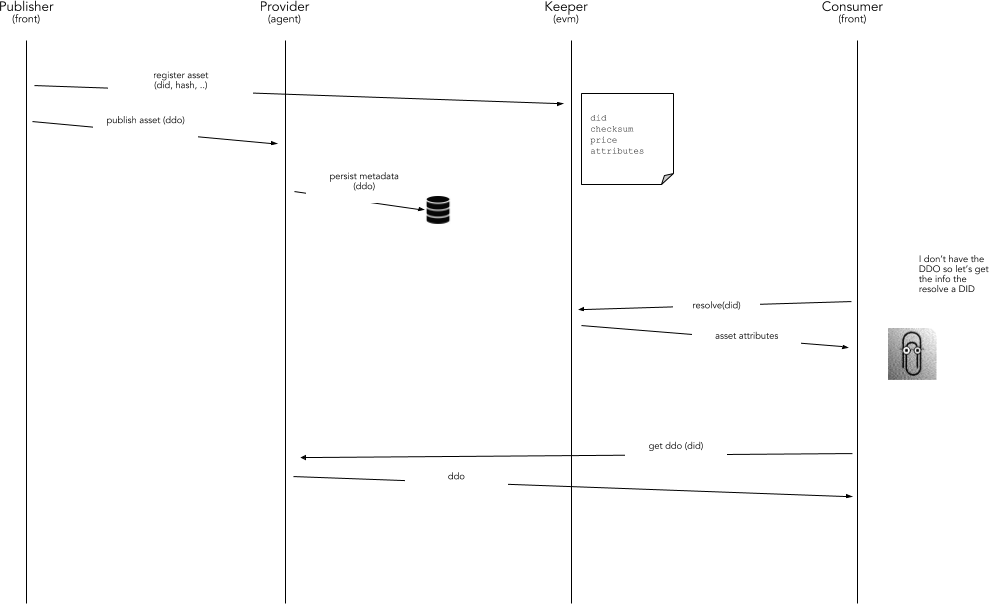
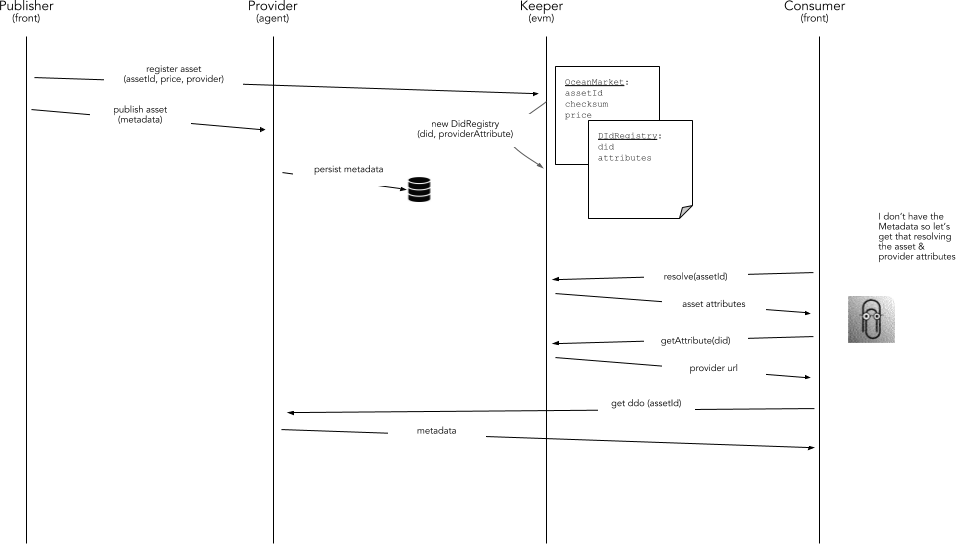
spec updated

diff --git a/7/README.md b/7/README.md
@@ -20,12 +20,18 @@ Table of Contents
       * [Specification](#specification)
       * [Proposed Solution](#proposed-solution)
          * [Decentralized ID's (DID)](#decentralized-ids-did)
-         * [Registry](#registry)
-         * [Resolver](#resolver)
+         * [Actors Identity](#actors-identity)
+            * [Registry](#registry)
+            * [DID Resolver](#did-resolver)
+         * [Assets Identification](#assets-identification)
+            * [Registry of Assets](#registry-of-assets)
+            * [Assets Resolver](#assets-resolver)
       * [Changes Required](#changes-required)
       * [Metadata Integrity](#metadata-integrity)
          * [Proposed solution](#proposed-solution-1)
       * [Changes Required](#changes-required-1)
+      * [References](#references)
+
 
 
 <!--te-->
@@ -52,12 +58,13 @@ The key words "MUST", "MUST NOT", "REQUIRED", "SHALL", "SHALL NOT", "SHOULD", "S
 
 The main motivations of this OEP are:
 
-* Design a solution to extend the current architecture to use **Uniform Resource Names (URN)**, **Decentralized Identifiers (DID)** and **DID description objects (DDO)**
+* Design a solution to extend the current Ocean architecture to use  **Decentralized Identifiers (DID)** and **DID description objects (DDO)**
 * Understand how to register information on-chain with off-chain integrity associated
 * Understand how to resolve DID's into DDO's
+* Understand how to resolve Assets Metadata using Assets IDs
 * Design a solution facilitating to have the on-chain and off-chain information aligned
-* Establishing the mechanism to know if the DDO associted to a DID was modified
-* Defining the common mechanisms, interfaces and API's to implemented the designed solution
+* Establishing the mechanism to know if the DDO associated to a DID was modified
+* Defining the common mechanisms, interfaces and APIs to implemented the designed solution
 * Define how Ocean assets, agents and tribes can be modeled with a DID/DDO data model
 * Understand how DID hubs are formed, and how they integrate a business and storage layer
 
@@ -74,16 +81,16 @@ Requirements are:
 * KEEPER doesn't store any ASSET metadata
 * OCEAN doesn't store ASSET files contents
 * SUBJECTS (Ocean actors) could be identified using a **Decentralized ID (DID)** included on-chain and off-chain
-* ACTORS don't need to be registered. Only ACTORS requiring to be discovered by others require a simple registering mechanism
+* ACTORS don't need to be registered. Only ACTORS requiring to be discovered by others require a simple registration mechanism
 * A Decentralized Distributed Object (**DDO**) represents the metadata of an Actor
-* A **DID** can be resolved to get access to a **DDO**
-* DDO's can be updated without updating the on-chain information
+* A **DID** can be resolved into a **DDO**
+* DDOs can be updated without updating the on-chain information
 * An ASSET is modeled in OCEAN as on-chain information stored in the KEEPER and metadata stored in OCEANDB
 * ASSETS on-chain information only can be modified by OWNERS or DELEGATED USERS
-* ASSETS can be resolved using a **Uniform Resource Name (URN)** included on-chain and off-chain
-* Any kind of object registered in Ocean MUST have a **URN** allowing to uniquely identify that object in the system
-* ASSET Metadata (off-chain) is associated to the ASSET information stored on-chain using a common **URN**
-* A **URN** can be resolved to get access to extended **Metadata**
+* An ASSET is identified using an ASSET ID
+* Any kind of object registered in Ocean MUST have a **Uniform Resource Names (URN)** allowing to uniquely identify that object in the system
+* ASSET Metadata (off-chain) is associated to the ASSET information stored on-chain using a common **ASSET ID**
+* A **ASSET ID** can be resolved to get access to extended **Metadata**
 * ASSET Metadata could be provided by one or more than one providers
 * ASSETs Metadata can be updated without updating the on-chain information
 * ASSET information stored in the keeper will include a **checksum** attribute
@@ -122,59 +129,34 @@ did:ocn:21tDAKCERh95uGgKbJNHYp
 The complete specs can be found in the [W3C Decentralized Identifiers (DIDs) document](https://w3c-ccg.github.io/did-spec/)
 
 
-### Uniform Resource Names (URN)
-
-Uniform Resource Names (URNs) are intended to serve as persistent, location-independent, resource identifiers and are designed to make
-it easy to map other namespaces (which share the properties of URNs) into URN-space. Therefore, the URN syntax provides a means to encode
-character data in a form that can be sent in existing protocols, transcribed on most keyboards, etc.
-
-Schema:
-
-```text
-<URN> ::= "urn:" <NID> ":" <NSS>
-```
-
-Where <NID> is the Namespace Identifier, and <NSS> is the Namespace Specific String.
-The leading "urn:" sequence is case-insensitive. The Namespace ID determines the _syntactic_ interpretation of the Namespace Specific String.
-
-In practice, a possible URN's to use in Ocean refering an Asset is:
-
-```text
-urn:asset:123456aabbcc
-```
-
-To avoid additional extra costs, only the Namespace Specific String (NSS) will be stored in the specific Smart Contract.
-It means in any Assets Registry variable, only the NSS will be stored.
-
-
 ### Actors Identity
 
 #### Registry
 
-To register an Actor, who requires to be located, the simple will provide a **simple** register contract named **DIdRegistry**.
+To register an Actor, requiring to be located, a simple register contract named **DidRegistry** will be provided.
 The key of the Identity entity in Ocean is the **DID**. Associated to this DID we have a Mapping of key-value attributes,
 allowing to associate publicly information to DID's. This could be used to add public information allowing for example
-to discover/resolve a DID.
-There are two main options to implement this:
+to discover/resolve a DID. There are two main options to implement this:
 
 * Associate to the DID a mapping of key-value attributes to be stored as new entries of a smart contract variable
 
-* Emit events associated to the DID. Events works pretty well as a kind of cost effective storage. This is the recommended approach.
+* Emit events associated to the DID. Events works pretty well as a kind of cost effective storage. This is the **recommended approach**.
 
 Contract Events are a useful feature for storing data from smart contracts exclusively for off-chain use.
 
-Here a draft **DIdRegistry** implementation:
+Here a draft **DidRegistry** implementation:
 
 ```solidity
 
 // This piece of code is for reference only!
 // Doesn't include any validation, types could be reviewed, enums, etc
 
-contract DIdRegistry {
+contract DidRegistry {
 
     struct Identity {
         address owner; // owner of the Identity
         string did;
+        mapping (bytes32 => string) attributes; // key => value attributes
     }
 
     mapping (string => Identity) identities; // list of identities
@@ -182,11 +164,9 @@ contract DIdRegistry {
     // Option 1. Attributes as K,V stored as part of internal object attributes
     mapping (string => mapping (bytes32 => string) ) identities; // list identities attributes
 
-    // Option 2. Attributes as events (recommended)
+    // Attributes are emited as events
     event DidAttributeRegistered(
         string indexed did,
-        address indexed owner,
-        bool indexed active,
         bytes32 indexed key,
         string value,
         uint updateAt
@@ -195,56 +175,34 @@ contract DIdRegistry {
     constructor(bytes32 _did) public {
     }
 
-    function registerAttribute(string _did, bytes32 _key, string _value) public returns (bool) {
-        // Option 1.
+    function registerAttribute(string _did, bytes32 _key, string _value) public _onlyOwner returns (bool) {
+        // Registering Identity
         identities[_did][_key] = _value;
 
-        // Option 2. (recommended)
-        DidAttributeRegistered(_did, msg.sender, identities[_did].type, _key, _value, now);
+        // Emitting event about new Attribute registered
+        emit DidAttributeRegistered(_did, _key, _value, now);
+    }
+
+    function getAttribute(string _did, bytes32 _key) public view returns (string) {
+        return identities[_did][_key];
     }
 }
 
 ```
 
-To register the provider publicly resolving the DDO associated to a DID, we will register an attribute **"provider"** with the public hostname of that provider:
+To register the provider publicly resolving the DDO associated to a DID, we will register an attribute **"url"** with the public address of that provider:
 
 ```
-registerAttribute("did:ocn:21tDAKCERh95uGgKbJNHYp", "provider", "https://myprovider.example.com")
+registerAttribute("did:ocn:21tDAKCERh95uGgKbJNHYp", "url", "https://myprovider.example.com/")
 ```
 
 
 #### DID Resolver
 
-The resolving capabilities will be encapsulated in the Ocean Client libraries (Javascript, Python, ..), allowing to resolve a DDO directly speaking with the KEEPER.
+The resolving capabilities will be encapsulated in the Ocean Client libraries (Javascript, Python, ..), allowing to resolve a DDO directly interacting with the KEEPER.
 No third-party requests or API need to be integrated. This allows to have a simple a seam-less integration from the consumer side.
 
-This is a generic definition of what could be exposed in the client libraries from an API point of view:
-
-```java
-function DDO resolve(String did)  {
-  // black magic
-  return ddo;
-}
-```
-
-To resolve a DID to the associated DDO, some information is stored on-chain associated to the DID. In the approach recommended in the scope of this OEP, this is stored
-as an attribute associated to the ```DidAttributeRegistered``` event. Because the did and key are indexed parameters of the event, a consumer in any supported web3 language,
-could filter the ```DidAttributeRegistered``` events filtering by the DID and the key named **"provider"**.
-
-A DDO pointing to a DID could be resolved hierarchically using the same mechanism.
-
-This is an example in Javascript using web3.js:
-
-```javascript
-var event = contractInstance.DidAttributeRegistered( {did: "did:ocn:21tDAKCERh95uGgKbJNHYp", "key": "provider", "active": true}, {fromBlock: 0, toBlock: 'latest'});
-```
-
-Here in Python using web3.py:
-
-```python
-event = mycontract.events.DidAttributeRegistered.createFilter(fromBlock='latest', argument_filters={'did': 'did:ocn:21tDAKCERh95uGgKbJNHYp', 'key': 'provider', 'active': true})
-```
-
+Only calling to the `getAttribute` method about an specific DID would be possible to get the public url associated to that DID.
 This logic could be encapsulated in the client libraries in different languages, allowing to the client applications to get the attributes enabling to resolve the DDO associated to the DID.
 Using this information a consumer can query directly to the provider able to return the DDO.
 
@@ -302,22 +260,27 @@ contract OceanMarket {
 Asset attributes have associated the `active` flag (true or false). It allows to disable existing attributes, and from the client perspective filtering and getting only the active attributes.
 In that scope, an `unregister` method could be implemented, allowing to de-activate an existing attribute.
 
-Examples:
-```
-register("123abc456", 999, "provider", "did:ocn:9988776655443322110000");
-registerAssetAttribute("123abc456", "provider", "did:ocn:21tDAKCERh95uGgKbJNHYp");
-registerAssetAttribute("123abc456", "provider", "did:ocn:aaaaaaaaaaaaaa");
-unregisterAssetAttribute("123abc456", "provider", "did:ocn:21tDAKCERh95uGgKbJNHYp");
-```
-
-After the execution of the previous code, 4 independent `AssetAttributeRegistered` are emitted about the **provider** key.
 Because the events are sorted by block number, a consumer of the events could reconstruct the state of the active Asset attributes using this information.
 This list would be the list of active providers associated to an Asset.
 
 
 #### Assets Resolver
 
-TODO:
+To resolve the provider URL associated to an asset, the Provider DID is stored on-chain associated to the asset using events. In the approach recommended in the scope of this OEP, this is stored
+as an attribute associated to the ```AssetAttributeRegistered``` event. Because the assetId and key are indexed parameters of the event, a consumer in any supported web3 language,
+could filter the ```AssetAttributeRegistered``` events filtering by the **assetId** and the key named **"provider"**.
+
+This is an example in Javascript using web3.js:
+
+```javascript
+var event = contractInstance.AssetAttributeRegistered( {assetId: "12345678", "key": "provider", "active": true}, {fromBlock: 0, toBlock: 'latest'});
+```
+
+Here in Python using web3.py:
+
+```python
+event = mycontract.events.AssetAttributeRegistered.createFilter(fromBlock='latest', argument_filters={'assetId': '12345678', 'key': 'provider', 'active': true})
+```
 
 
 
@@ -339,10 +302,10 @@ Steps:
 
 The list of changes to apply in the proposed solution are:
 
-* Modify the function creating the Asset Id to return a URN compliant id - KEEPER
 * Create a new function to generate a valid DID - KEEPER
-* Create the new DIdRegistry Smart Contract - KEEPER
-* Integrate the call to the DIdRegistry contract in the OceanMarketplace contract - KEEPER
+* Create the new DidRegistry Smart Contract - KEEPER
+* When a new Asset is created, it's checked if the DID exists in the DidRegistry - KEEPER
+* If DID doesn't exist, integrate the call to the DidRegistry constructor in the OceanMarketplace contract - KEEPER
 * Implement the resolving function of a Provider public URL given a a DID - CLIENT LIBRARIES
 * Implement the resolving function of a ASSET Metadata an ASSET URN - CLIENT LIBRARIES
 
